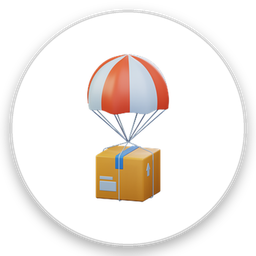
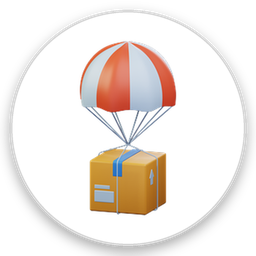
Xarita tezligi tiklandi + ikonka ichi kattalashdi + A manzil pin bilan birga o'zgaradi
TEZLIK (asosiy sabab)
- "Bu mening e'lonim" belgisi 4 ta Mapbox circle qatlami edi va ularni har 90 ms da
  ishlaydigan setInterval jonlantirardi: bir tikda setPaintProperty() 10 martagacha
  chaqirilar, har biri xaritani TO'LIQ qayta chizishga majbur qilardi - sekundiga
  ~11 marta, to'xtovsiz, hatto foydalanuvchi hech narsa qilmayotganda ham.
  Endi bu bitta DOM elementi (mapboxgl.Marker) va animatsiya sof CSS'da, ya'ni
  brauzer kompozitorida (GPU) ishlaydi va xaritaga umuman tegmaydi.
  Brauzerda o'lchandi: 3 soniyada 0 ta majburiy qayta chizish (ilgari ~33 ta).
- maybeForceFreshReload chegarasi 4 SONIYA edi: ilova fondan har qaytganda butun
  sahifa qayta yuklanar - Mapbox qayta yuklanadi, xarita noldan quriladi, 4 ta
  Firestore ulanishi qayta ochilib ~1300 hujjat o'qilardi. Endi 30 daqiqa.
  Bu Firestore kvotasini ham sezilarli tejaydi.

IKONKA
- Pin doirasi asl o'lchamida qoldi; kattalashuv doiraning ICHIDAGI ikonkaga
  tegishli va rasmning o'ziga qurib berildi (7% + 10% = jami ~17.7%), shu sabab
  xaritadagi barcha belgilarda ham bir xil.

A MANZIL (ikkita alohida sabab bor edi)
1) Pin surilganda viloyat umuman qayta hisoblanmasdi - u faqat bir marta, GPS
   javobida to'ldirilardi. Endi 'moveend' da applyFromRegionFromCoords()
   chaqiriladi (faqat surish TUGAGANDAN keyin, va viloyat o'zgarmagan bo'lsa
   hech narsa qilmaydi - tezlikka ta'sir qilmasin).
2) subscribeOwnDriverStateSync dagi guard "activeUniMode && current.from &&
[…]

Changed region(s): [[0.3125, 0.1562, 0.6875, 0.8438]]

diff --git a/index.html b/index.html
@@ -983,6 +983,41 @@ body.view-driver .driver-route-bar{
    (Yandex/Uber uslubidagi "markaziy pin").
    Oyoqcha uchi konteynerning markaziga (ya'ni map.getCenter() ga)
    to'g'ri kelishi uchun element yuqoriga suriladi. */
+/* ═══ "Bu mening e'lonim" belgisi — SOF CSS, xaritani qayta chizmaydi ═══
+   Animatsiya brauzer kompozitorida (GPU) ishlaydi. Ilgari buni JS taymer
+   qilardi va sekundiga ~11 marta butun xaritani qayta chizishga majbur
+   qilardi — xaritaning sekinlashuvi aynan shundan edi. */
+.own-indicator{width:0;height:0;position:relative;pointer-events:none}
+.own-indicator::before,.own-indicator::after{
+  content:'';position:absolute;left:0;top:0;border-radius:50%;
+  will-change:transform,opacity;
+}
+/* Yuk / Yo'lovchi — nafas oluvchi to'ldirilgan doira */
+.own-indicator[data-kind="seeker"]::before{
+  width:56px;height:56px;margin:-28px 0 0 -28px;
+  background:rgba(42,171,238,.30);
+  animation:ownBreath 2.4s ease-in-out infinite;
+}
+.own-indicator[data-kind="seeker"]::after{content:none}
+/* Haydovchi — radar uslubida kengayib-yo'qoluvchi ikkita halqa */
+.own-indicator[data-kind="driver"]::before,
+.own-indicator[data-kind="driver"]::after{
+  width:44px;height:44px;margin:-22px 0 0 -22px;
+  border:2.5px solid #22C55E;
+  animation:ownRadar 2.2s cubic-bezier(.2,.6,.3,1) infinite;
+}
+.own-indicator[data-kind="driver"]::after{animation-delay:1.1s}
+@keyframes ownBreath{
+  0%,100%{transform:scale(.80);opacity:.45}
+  50%    {transform:scale(1.14);opacity:.15}
+}
+@keyframes ownRadar{
+  0%  {transform:scale(.45);opacity:.9}
+  100%{transform:scale(2.2);opacity:0}
+}
+@media (prefers-reduced-motion:reduce){
+  .own-indicator::before,.own-indicator::after{animation:none!important}
+}
 .travel-pin--fixed{
   position:absolute;left:50%;top:50%;
   transform:translate(-50%, calc(-100% - 16px));
@@ -3319,9 +3354,22 @@ html, body { font-size: var(--fs-base); }
 const BUILD_VERSION = '2026-08-27-2020-driverUsers-fix';
 const __appBootTime = Date.now();
 let __didForceFreshReload = false;
+// TEZLIK UCHUN QAYTA SOZLANDI.
+// Ilgari bu chegara 4 SONIYA edi: ilova fondan har qaytganda (Telegramga
+// o'tib qaytish, bildirishnoma ochish — kuniga o'nlab marta) BUTUN sahifa
+// qayta yuklanardi. Har bir qayta yuklash: Mapbox kutubxonasi va uslubi
+// qaytadan yuklanadi, xarita noldan quriladi, 4 ta Firestore ulanishi
+// qaytadan ochilib ~1300 hujjat o'qiladi. Foydalanuvchi buni "ilova
+// qotib qoldi / sekin" deb his qiladi, ustiga Firestore kvotasi ham
+// bekorga sarflanardi.
+//
+// Qayta yuklashning yagona maqsadi — eng oxirgi kod ishlashi. Buning uchun
+// har safar emas, faqat sahifa ANCHA UZOQ ochiq turgan bo'lsa yetarli.
+// Aks holda ma'lumot handleAppReactivated() orqali baribir yangilanadi.
+const FRESH_RELOAD_AFTER_MS = 30 * 60 * 1000; // 30 daqiqa
 function maybeForceFreshReload(){
   if (__didForceFreshReload) return false;
-  if (Date.now() - __appBootTime > 4000) {
+  if (Date.now() - __appBootTime > FRESH_RELOAD_AFTER_MS) {
     __didForceFreshReload = true;
     try { location.reload(); } catch(e) {}
     return true;
@@ -3607,7 +3655,17 @@ function subscribeOwnDriverStateSync(){
     // bo'lsa (bosh ekran) yoki mahalliy marshrut umuman bo'lmasa ishlaydi.
     if (isActive) {
       const current = JSON.parse(localStorage.getItem(routeKey()) || '{}');
-      const userIsEditing = activeUniMode !== null && !!current.from && !!current.to;
+      // MUHIM: shart avval "activeUniMode !== null && current.from && current.to"
+      // edi. Muammo shunda ediki, foydalanuvchi amal tugmasini bosgach A
+      // avtomatik to'ldiriladi, B esa HALI BO'SH bo'ladi — ya'ni aynan pin
+      // surib joy tanlayotgan paytda shart FALSE bo'lib qolardi va
+      // Firestore'dagi eski marshrut mahalliy tanlovni bosib yozardi.
+      // users/<id> ga GPS har 15 soniyada yozilgani uchun bu muqarrar edi:
+      // pinni Farg'onaga surasiz, A "Farg'onadan" bo'ladi, keyin snapshot
+      // kelib uni yana "Toshkentdan" ga qaytarardi.
+      // Endi qoida sodda: rejim FAOL bo'lsa — foydalanuvchi ishlayapti,
+      // mahalliy tanlov ustun.
+      const userIsEditing = activeUniMode !== null;
       if (!userIsEditing && (current.from !== d.routeFrom || current.to !== d.routeTo)) {
         localStorage.setItem(routeKey(), JSON.stringify({ from: d.routeFrom, to: d.routeTo }));
         if (typeof loadDriverRouteState === 'function') loadDriverRouteState();
@@ -3964,10 +4022,33 @@ let travelPinFixedEl = null;
 let uniPinCoord = null;
 
 // Xarita har siljiganda pin ko'rsatayotgan koordinatani yangilaymiz.
+// "Qayerdan" (A manzil) ni berilgan koordinataga qarab to'ldiradi.
+// Bir xil viloyat bo'lsa hech narsa qilmaydi — bekorga qayta chizish va
+// qayta filtrlash bo'lmasin (tezlik uchun muhim).
+function applyFromRegionFromCoords(lng, lat){
+  const regionName = detectRegionFromCoords(lng, lat);
+  if (!regionName) return;
+  const saved = JSON.parse(localStorage.getItem(routeKey()) || '{}');
+  if (saved.from === regionName) return;          // o'zgarmagan — tegmaymiz
+  saved.from = regionName;
+  localStorage.setItem(routeKey(), JSON.stringify(saved));
+  const fromLbl = document.getElementById('driverFromLabel');
+  if (fromLbl) { fromLbl.textContent = regionWithFromSuffix(regionName); fitPillLabelText(fromLbl); }
+  document.getElementById('driverFromBtn')?.classList.add('has-value');
+  refreshOrderMarkersDebounced();
+}
+
 function syncUniPinCoord(){
   if (!map || !travelPinFixedEl) return;
   const c = map.getCenter();
   uniPinCoord = { lng: c.lng, lat: c.lat };
+  // MUHIM: pin boshqa viloyatga surilsa "Qayerdan" ham o'sha viloyatga
+  // o'zgarishi kerak — ilgari u faqat BIR MARTA, GPS javobida to'ldirilar
+  // va keyin xarita surilsa ham eski viloyatda qolib ketardi.
+  // detectRegionFromCoords arzon (14 ta nuqta bo'yicha oddiy hisob) va
+  // faqat 'moveend' da, ya'ni surish TUGAGANDAN keyin chaqiriladi —
+  // shu sabab surish silliqligiga ta'sir qilmaydi.
+  applyFromRegionFromCoords(c.lng, c.lat);
 }
 
 function removeFixedPin(){
@@ -4069,7 +4150,11 @@ function playTravelPinAnimation(activeBtn, allBtns, key, token){
 
   const imgRect = iconImg.getBoundingClientRect();
   const mapRect = mapEl.getBoundingClientRect();
-  const pinSize = Math.round(imgRect.width * 1.45); // xaritada biroz kattaroq (7% oshirildi)
+  // ESLATMA: bu — pin DOIRASINING o'lchami, u o'zgarmaydi. 7% kattalashuv
+  // doiraning ICHIDAGI ikonkaga tegishli va u rasmning o'ziga (assets/
+  // icon-*-map.png) qurib berilgan — shu sabab xaritadagi barcha belgilarda
+  // ham bir xil bo'ladi.
+  const pinSize = Math.round(imgRect.width * 1.35);
   const targetX = mapRect.left + mapRect.width / 2 - pinSize / 2;
   // MUHIM: endi pinning OYOQCHA UCHI xaritaning markaziga (ya'ni
   // foydalanuvchining koordinatasiga) tushishi kerak — shu sabab dumaloq
@@ -4138,20 +4223,7 @@ function playTravelPinAnimation(activeBtn, allBtns, key, token){
     // Haydovchiman) HAM BIR XIL yuqoridagi Qayerdan/Qayerga panelidan
     // foydalanadi — shuning uchun endi bu avtomatik to'ldirish key'dan
     // qat'i nazar (travel/cargo/driver) barcha uchtasida ham ishlaydi.
-    {
-      const regionName = detectRegionFromCoords(lng, lat);
-      if (regionName) {
-        const fromLbl = document.getElementById('driverFromLabel');
-        if (fromLbl) { fromLbl.textContent = regionWithFromSuffix(regionName); fitPillLabelText(fromLbl); }
-        document.getElementById('driverFromBtn')?.classList.add('has-value');
-        // "Qayerdan" avtomatik to'ldirildi — xaritadagi haydovchi yo'nalishlari
-        // shu manzilga qarab qayta filtrlanadi.
-        const saved = JSON.parse(localStorage.getItem(routeKey()) || '{}');
-        saved.from = regionName;
-        localStorage.setItem(routeKey(), JSON.stringify(saved));
-        refreshOrderMarkersDebounced();
-      }
-    }
+    applyFromRegionFromCoords(lng, lat);
 
     travelPinFlightTimer = setTimeout(() => {
       travelPinFlightTimer = null;
@@ -5345,13 +5417,7 @@ const MAP_ORDER_SOURCE_IDS = ['map-orders', 'map-travels', 'map-driver-routes'];
 const ORDER_MAP_LAYER_IDS = [
   'map-orders-clusters', 'map-orders-cluster-count', 'map-orders-unclustered-icon', 'map-orders-unclustered-label',
   'map-travels-clusters', 'map-travels-cluster-count', 'map-travels-unclustered-icon', 'map-travels-unclustered-label',
-  'map-driver-routes-clusters', 'map-driver-routes-cluster-count', 'map-driver-routes-unclustered-icon', 'map-driver-routes-unclustered-label',
-  // "Bu mening e'lonim" belgilari ham shu ro'yxatda bo'lishi SHART: qatlamlar
-  // qayta qurilganda (removeMapOrderLayers) ular ham o'chirilmasa, manbasi
-  // (source) o'chirilgan "yetim" qatlam bo'lib qolib, Mapbox xato beradi va
-  // xaritada hech narsa yo'q joyda pulsatsiya ko'rinib turadi.
-  'map-orders-own-pulse', 'map-travels-own-pulse',
-  'map-driver-routes-own-radar-a', 'map-driver-routes-own-radar-b'
+  'map-driver-routes-clusters', 'map-driver-routes-cluster-count', 'map-driver-routes-unclustered-icon', 'map-driver-routes-unclustered-label'
 ];
 // Xaritadagi belgilar o'lchami. Uchala ikonka ham endi BIR XIL o'lchamdagi
 // oq doira ichida (assets/icon-*-3d.png rasmlariga doira ichiga qurib
@@ -8013,13 +8079,7 @@ function applyUniModeMapVisibility(){
   ];
   const driverRouteIds = [
     'map-driver-routes-clusters', 'map-driver-routes-cluster-count',
-    'map-driver-routes-unclustered-icon', 'map-driver-routes-unclustered-label',
-    // MUHIM: "bu mening e'lonim" belgisi (radar halqalari) HAR DOIM o'zining
-    // ikonkasi bilan BIRGA yashirinishi/ko'rinishi kerak. Ilgari bu ro'yxatda
-    // yo'q edi va natijada haydovchi orqaga bosganda mashina ikonkasi
-    // yashirinib, uning ostidagi yashil pulsatsiya xaritada yolg'iz qolib
-    // ketardi ("hech narsa yo'q joyda yashil doira pulsatsiya qilyapti").
-    'map-driver-routes-own-radar-a', 'map-driver-routes-own-radar-b'
+    'map-driver-routes-unclustered-icon', 'map-driver-routes-unclustered-label'
   ];
   const isDriverMode = activeUniMode === 'driver';
   // ═══ YAGONA, SIMMETRIK QOIDA ═══
@@ -8037,7 +8097,6 @@ function applyUniModeMapVisibility(){
   //   seeker rejimi  → o'zining yuk/yo'lovchi e'loni + BARCHA mos haydovchilar
   //   driver rejimi  → o'zining mashinasi      + BARCHA mos yuk/yo'lovchilar
   //   bosh ekran     → haydovchi yo'nalishlari yashirin (avvalgidek)
-  orderTravelIds.push('map-orders-own-pulse', 'map-travels-own-pulse');
   orderTravelIds.forEach(id => { if (map.getLayer(id)) map.setLayoutProperty(id, 'visibility', 'visible'); });
   driverRouteIds.forEach(id => {
     if (map.getLayer(id)) map.setLayoutProperty(id, 'visibility', (isSeekerMode || isDriverMode) ? 'visible' : 'none');
@@ -8045,6 +8104,7 @@ function applyUniModeMapVisibility(){
   applyMapLayerOwnFilter('map-orders', isSeekerMode);
   applyMapLayerOwnFilter('map-travels', isSeekerMode);
   applyMapLayerOwnFilter('map-driver-routes', isDriverMode);
+  updateOwnIndicator();
 }
 
 function findOrderByMapId(orderId){
@@ -8114,11 +8174,6 @@ const MAP_LABEL_PAINT = {
 
 function removeMapOrderLayers(){
   if (!map) return;
-  // Animatsiya taymerini ham to'xtatamiz — qatlamlar o'chirilgach u bekorga
-  // ishlab turmasin.
-  if (typeof _ownIndicatorTimer !== 'undefined' && _ownIndicatorTimer) {
-    clearInterval(_ownIndicatorTimer); _ownIndicatorTimer = null;
-  }
   [...ORDER_MAP_LAYER_IDS, 'orders-clusters', 'orders-unclustered-icon', 'orders-unclustered-label', 'orders-cluster-count'].forEach(id => {
     if (map.getLayer(id)) map.removeLayer(id);
   });
@@ -8259,112 +8314,63 @@ function bindOrderMapEvents(){
 }
 
 // ══════════════════════════════════════════════════════════════════════
-// "Bu — MENING e'lonim" doimiy vizual belgisi. 3 ta sinov varianti orasidan
-// foydalanuvchi tanladi: hech qanday alohida suzuvchi yorliq/tugma YO'Q —
-// faqat ikonkaning o'zida animatsiya. Yuk yuboraman va Yo'lovchiman bir
-// xil (nafas oluvchi pulsatsiya), Haydovchiman esa boshqacha (radar
-// uslubida kengayib-yo'qoluvchi halqalar).
+// "Bu — MENING e'lonim" belgisi — TEZLIK UCHUN QAYTA YOZILDI.
+//
+// Ilgari bu 4 ta Mapbox "circle" qatlami edi va ularni har 90 ms da
+// ishlaydigan setInterval jonlantirardi: bir tikda setPaintProperty()
+// 10 martagacha chaqirilardi, har biri esa xaritani TO'LIQ qayta chizishga
+// majbur qiladi. Ya'ni sekundiga ~11 marta to'liq qayta chizish — to'xtovsiz,
+// hatto foydalanuvchi hech narsa qilmayotganda ham. Xaritaning sekinlashuvi
+// va "qotishi" aynan shundan edi.
+//
+// Endi bu BITTA DOM elementi (mapboxgl.Marker) va animatsiya sof CSS'da.
+// CSS animatsiyasi brauzerning kompozitorida (GPU) ishlaydi va xaritani
+// umuman qayta chizishga majbur qilmaydi — ya'ni tejash to'liq: 0 ta
+// qo'shimcha qayta chizish. Ko'rinishi esa avvalgidek.
 // ══════════════════════════════════════════════════════════════════════
-let _ownIndicatorTimer = null;
+let ownIndicatorMarker = null;
 
-function ownIndicatorFilter(){
-  const ownId = telegramUser.id != null ? String(telegramUser.id) : null;
-  if (!ownId) return ['==', ['get', 'telegramId'], '__none__'];
-  return ['all', ['!', ['has', 'point_count']], ['==', ['get', 'telegramId'], ownId]];
-}
-
-function removeOwnMapIndicators(){
-  if (!map) return;
-  if (_ownIndicatorTimer) { clearInterval(_ownIndicatorTimer); _ownIndicatorTimer = null; }
-  [
-    'map-orders-own-pulse', 'map-travels-own-pulse',
-    'map-driver-routes-own-radar-a', 'map-driver-routes-own-radar-b'
-  ].forEach(id => { if (map.getLayer(id)) map.removeLayer(id); });
-}
-
-function setupOwnMapIndicators(){
-  if (!map || !map.getLayer('map-orders-unclustered-icon')) return;
-  removeOwnMapIndicators();
-  const filter = ownIndicatorFilter();
-
-  // Yuk yuboraman / Yo'lovchiman - ikonka atrofida nafis "nafas oluvchi"
-  // pulsatsiya qiluvchi doira (ikkalasida ham BIR XIL, qaysi birini
-  // tanlaganingizdan qat'i nazar).
-  ['map-orders', 'map-travels'].forEach(prefix => {
-    const color = prefix === 'map-orders' ? '#2AABEE' : '#E8820A';
-    map.addLayer({
-      id: `${prefix}-own-pulse`, type: 'circle', source: prefix,
-      filter,
-      paint: { 'circle-radius': 15, 'circle-color': color, 'circle-opacity': 0.32, 'circle-stroke-width': 0 }
-    }, `${prefix}-unclustered-icon`);
-  });
-
-  // Haydovchiman - radar uslubida kengayib-yo'qoluvchi ikkita halqa
-  // (chiziqli aylana, to'ldirilmagan).
-  if (map.getLayer('map-driver-routes-unclustered-icon')) {
-    ['a', 'b'].forEach(tag => {
-      map.addLayer({
-        id: `map-driver-routes-own-radar-${tag}`, type: 'circle', source: 'map-driver-routes',
-        filter,
-        paint: { 'circle-radius': 12, 'circle-color': 'transparent', 'circle-stroke-width': 2.5, 'circle-stroke-color': '#22C55E', 'circle-stroke-opacity': 0.85 }
-      }, 'map-driver-routes-unclustered-icon');
-    });
-  }
-
-  let breathT = 0;
-  let radarT = 0;
-  _ownIndicatorTimer = setInterval(() => {
-    if (!map) return;
-    // MUHIM: ikonkaning o'zi zoom bilan kattalashib-kichrayadi
-    // (ORDER_ICON_SIZE_LAYOUT), shu sabab uning atrofidagi pulsatsiya/radar
-    // halqalari ham AYNAN SHU nisbatda o'lchanishi kerak - aks holda
-    // uzoqlashtirilganda halqa ikonkadan kattaligicha qolib, yaqinlashtirilganda
-    // esa ikonka ichida yo'qolib ketardi. ownIconScaleNow() joriy zoom uchun
-    // ikonka koeffitsientini beradi va hamma radiuslar shunga ko'paytiriladi.
-    const k = ownIconScaleNow();
-
-    // Oq doira radiusi icon-size 1.0 da ~16 px - shu sabab pulsatsiya
-    // halqasi ALBATTA shundan kattaroq bo'lishi kerak, aks holda u
-    // doiraning ORQASIDA butunlay yashirinib qolardi va hech narsa
-    // ko'rinmasdi.
-    breathT = (breathT + 0.09) % (Math.PI * 2);
-    const pr = (24 + Math.sin(breathT) * 5) * k;
-    const po = 0.3 - Math.sin(breathT) * 0.15;
-    ['map-orders-own-pulse', 'map-travels-own-pulse'].forEach(id => {
-      if (map.getLayer(id)) { map.setPaintProperty(id, 'circle-radius', pr); map.setPaintProperty(id, 'circle-opacity', po); }
-    });
-
-    radarT = (radarT + 0.018) % 1;
-    ['a', 'b'].forEach((tag, i) => {
-      const id = `map-driver-routes-own-radar-${tag}`;
-      if (!map.getLayer(id)) return;
-      const phase = (radarT + (i === 0 ? 0 : 0.5)) % 1;
-      map.setPaintProperty(id, 'circle-radius', (18 + phase * 26) * k);
-      map.setPaintProperty(id, 'circle-stroke-width', 2.5 * k);
-      map.setPaintProperty(id, 'circle-stroke-opacity', Math.max(0, 0.85 * (1 - phase)));
-    });
-  }, 90);
-}
-
-// ORDER_ICON_SIZE_LAYOUT ichidagi ['interpolate','linear',['zoom'], z1,v1, z2,v2, ...]
-// jadvalidan joriy zoom uchun koeffitsientni hisoblab beradi (Mapbox buni
-// ichida o'zi qiladi, lekin JS tarafda ham kerak - halqalarni ikonka bilan
-// bir xil nisbatda o'lchash uchun).
-function ownIconScaleNow(){
-  if (!map) return 1;
-  const z = map.getZoom();
-  const stops = ORDER_ICON_SIZE_LAYOUT.slice(3);
-  let prevZ = stops[0], prevV = stops[1];
-  if (z <= prevZ) return prevV;
-  for (let i = 2; i < stops.length; i += 2) {
-    const curZ = stops[i], curV = stops[i + 1];
-    if (z <= curZ) {
-      const t = (z - prevZ) / (curZ - prevZ || 1);
-      return prevV + (curV - prevV) * t;
+// Belgi qaysi nuqtada va qanday ko'rinishda turishi kerakligini aniqlaydi.
+// null qaytsa — belgi umuman ko'rsatilmaydi.
+function getOwnIndicatorPoint(){
+  if (!activeUniMode) return null;                 // bosh ekranda kerak emas
+  if (activeUniMode === 'driver') {
+    if (!myDriverState.active) return null;
+    const id = telegramUser.id != null ? String(telegramUser.id) : null;
+    const own = id ? (driverUsers || []).find(d => String(d.telegramId) === id) : null;
+    if (own && own.realLat != null && own.realLng != null) {
+      return { lng: own.realLng, lat: own.realLat, kind: 'driver' };
     }
-    prevZ = curZ; prevV = curV;
+    const g = loadLastGPS();
+    return g ? { lng: g.lng, lat: g.lat, kind: 'driver' } : null;
   }
-  return prevV;
+  const p = getOwnActiveSeekerPoint();
+  return p ? { lng: p.lng, lat: p.lat, kind: 'seeker' } : null;
+}
+
+function updateOwnIndicator(){
+  if (!map) return;
+  const p = getOwnIndicatorPoint();
+  if (!p) {
+    if (ownIndicatorMarker) { ownIndicatorMarker.remove(); ownIndicatorMarker = null; }
+    return;
+  }
+  if (!ownIndicatorMarker) {
+    const el = document.createElement('div');
+    el.className = 'own-indicator';
+    ownIndicatorMarker = new mapboxgl.Marker({ element: el, anchor: 'center' })
+      .setLngLat([p.lng, p.lat]).addTo(map);
+  } else {
+    ownIndicatorMarker.setLngLat([p.lng, p.lat]);
+  }
+  ownIndicatorMarker.getElement().dataset.kind = p.kind;
+}
+
+// Eski nom saqlanadi (boshqa joylardan chaqiriladi), lekin endi u shunchaki
+// yangi, arzon belgini yangilaydi.
+function setupOwnMapIndicators(){ updateOwnIndicator(); }
+function removeOwnMapIndicators(){
+  if (ownIndicatorMarker) { ownIndicatorMarker.remove(); ownIndicatorMarker = null; }
 }
 // ══════════════════════════════════════════════════════════════════════
 
@@ -8719,6 +8725,7 @@ function refreshOrderMarkers(){
   if (map.getSource('map-driver-routes')) {
     map.getSource('map-driver-routes').setData(buildDriverRouteGeo());
   }
+  updateOwnIndicator();
 }
 
 async function adminDeleteAllOrders(){
